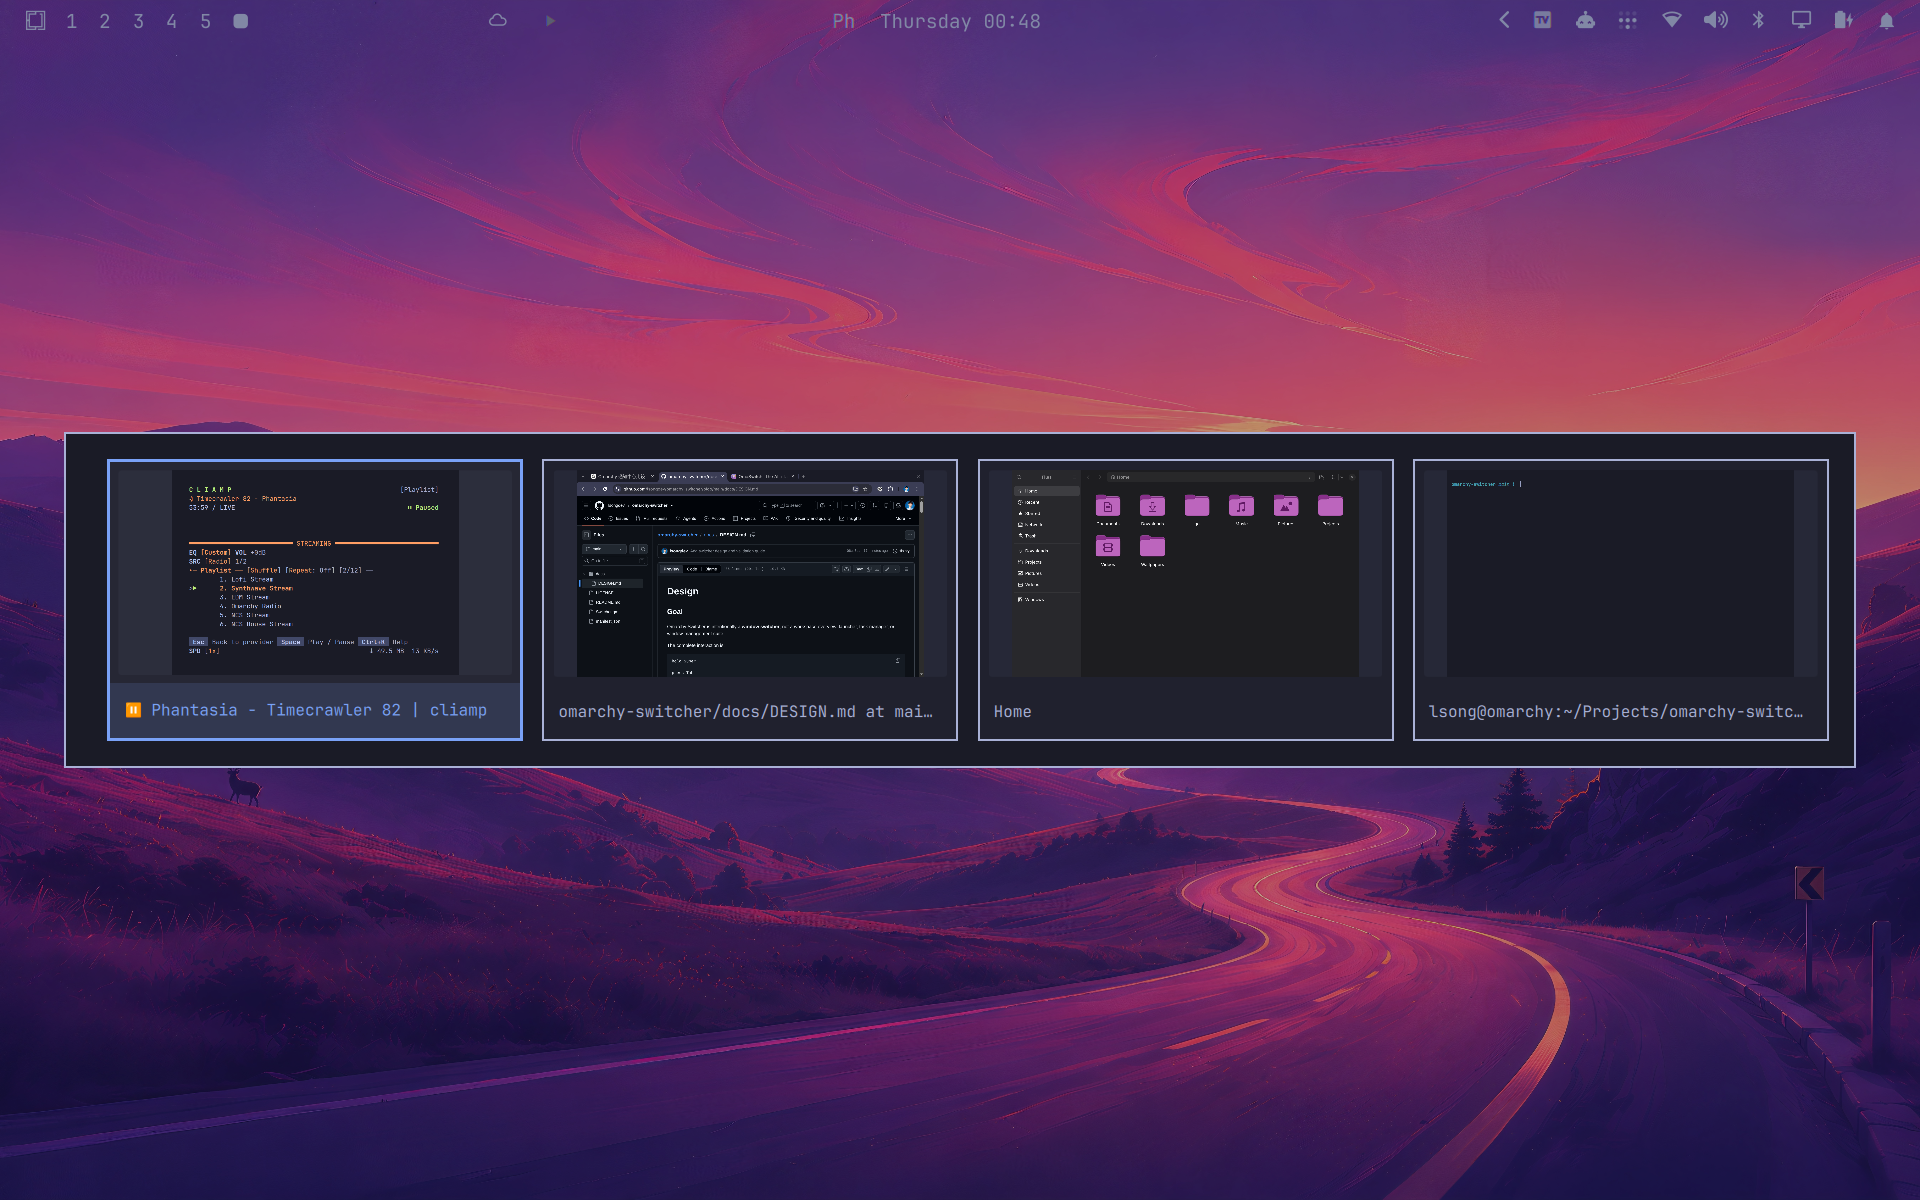
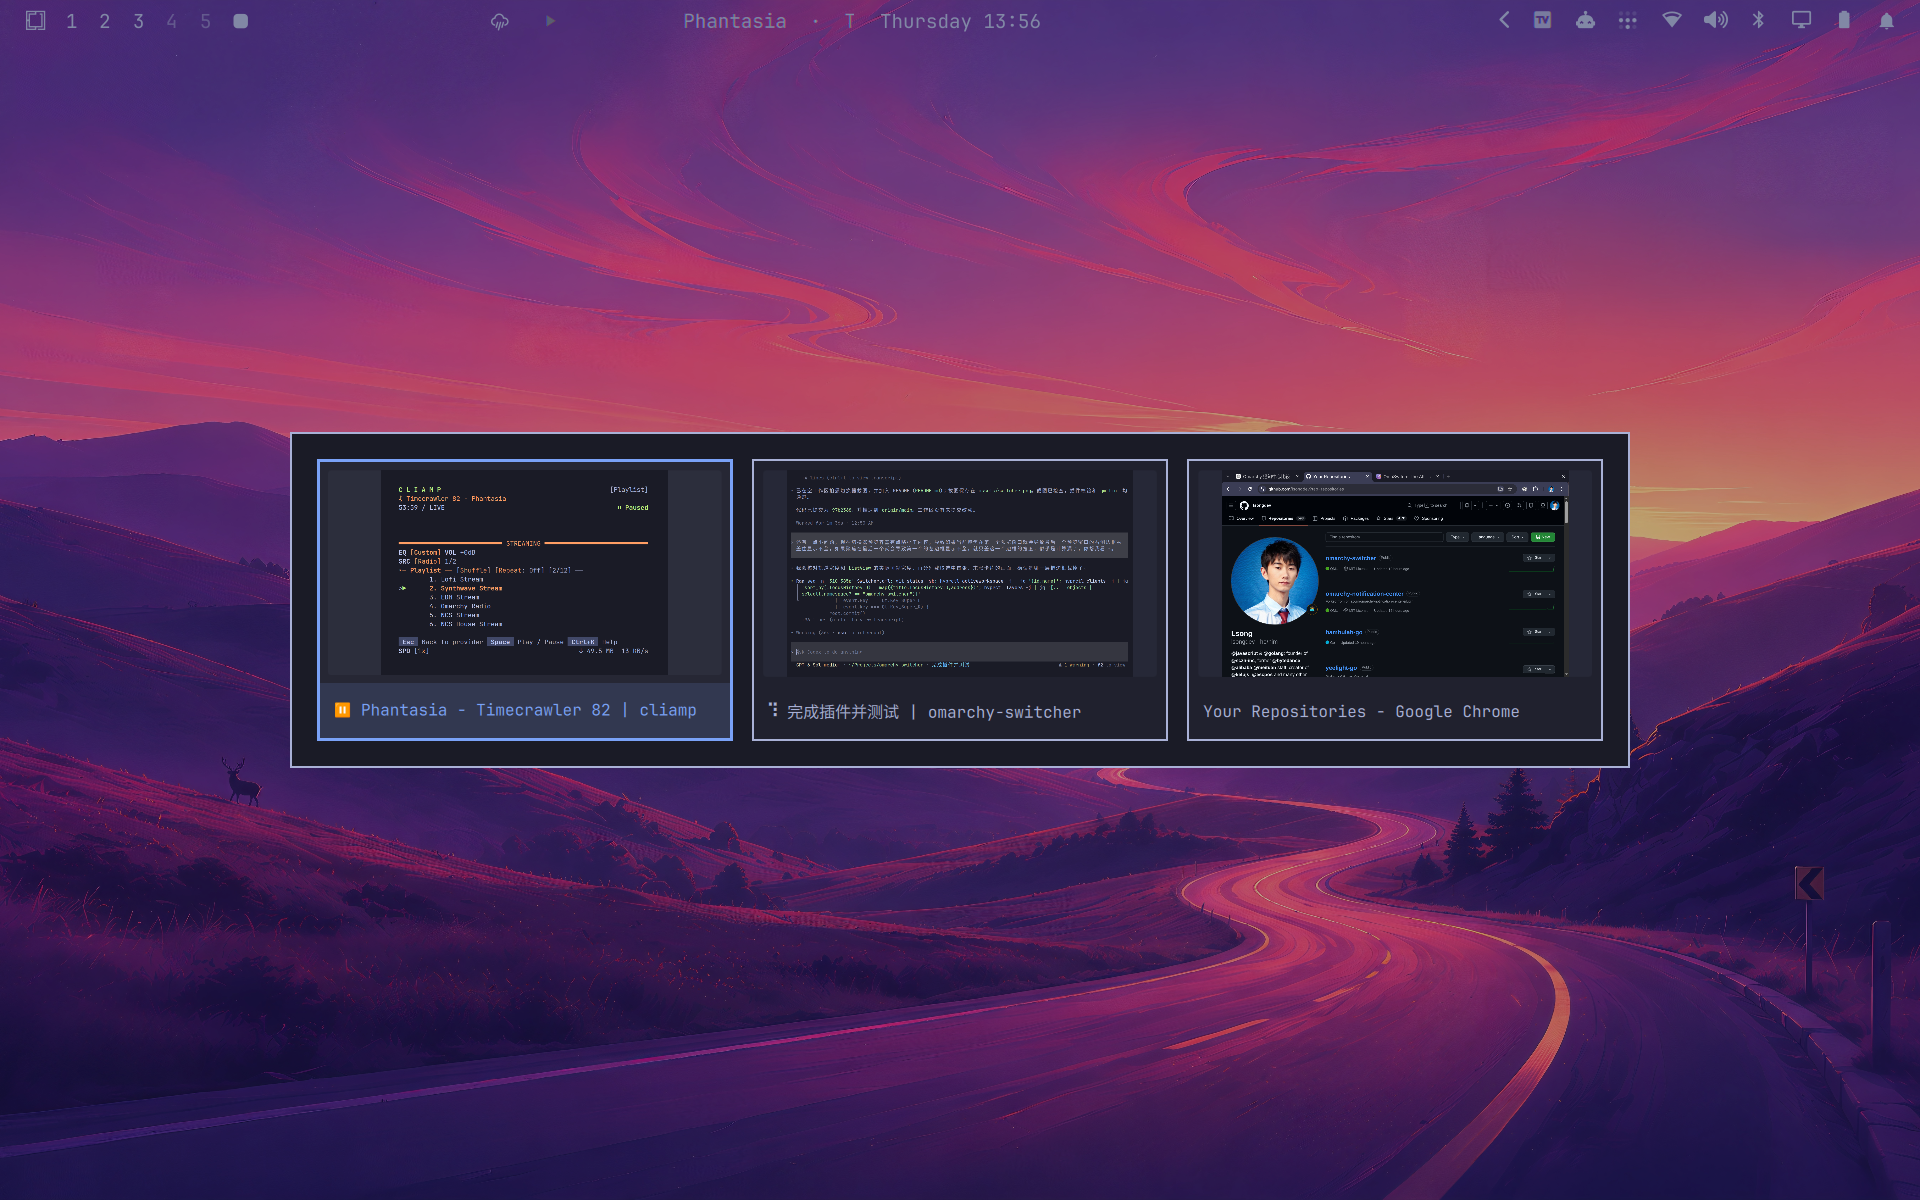
Include track borders in switcher width

diff --git a/Switcher.qml b/Switcher.qml
@@ -321,10 +321,10 @@ Item {
       width: Math.min(
         panel.width - Style.space(80),
         Math.max(
-          root.cardWidth + root.trackPadding * 2,
+          root.cardWidth + track.contentLeftInset + track.contentRightInset,
           root.windows.length * root.cardWidth
             + Math.max(0, root.windows.length - 1) * root.cardSpacing
-            + root.trackPadding * 2
+            + track.contentLeftInset + track.contentRightInset
         )
       )
       // Leave room below the cards so ListView's clip does not cut off their bottom border.
